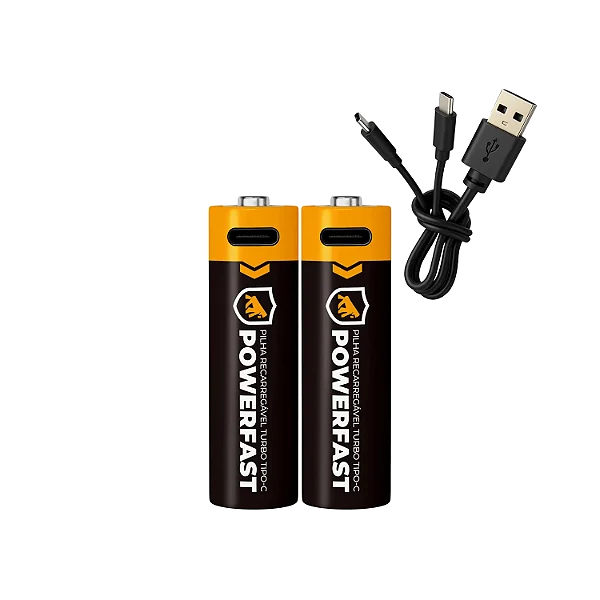
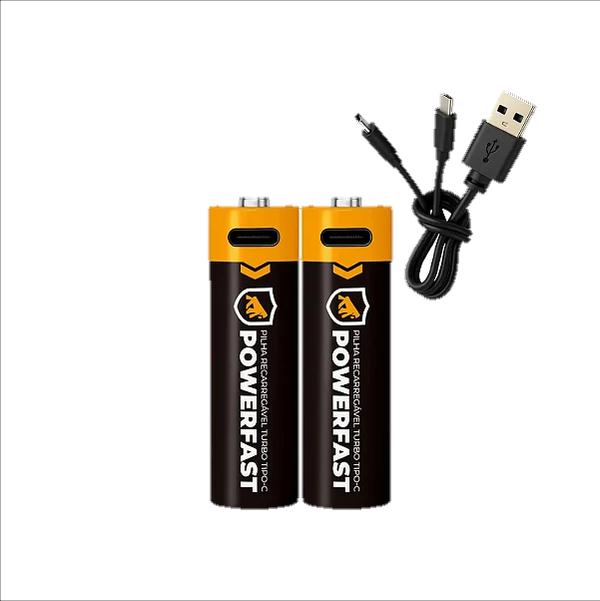
Corrige o recorte das fotos de produto
O halo claro em volta das peças vinha do próprio recorte: a versão
anterior apagava pixels acima de 232 de luminância e considerava opaco
todo o resto. A franja anti-serrilhado de um objeto escuro sobre branco
percorre a faixa inteira, então um pixel com 40% de cobertura saía
opaco e cinza-claro. Sobre branco isso é invisível, e foi por isso que
passou: a conferência tem de ser feita no fundo em que a imagem aparece.

Agora a borda é COMIDA em vez de adivinhada: dois pixels saem com alfa
em rampa e a cor deles é substituída pela do interior, para não sobrar
mistura com o fundo antigo em canal nenhum.

Buraco de fundo também não se distingue de tinta branca por limiar: uma
primeira tentativa comeu o "POWERFAST" impresso no corpo preto. Os dois
se separam por tamanho e uniformidade, com limites por imagem, porque as
cartelas têm tinta clara e os cabos não.

Cartão OG refeito, já que ele compõe a cartela sobre preto.

diff --git a/REGRAS.md b/REGRAS.md
@@ -898,6 +898,14 @@ Seis frentes auditadas em paralelo, cada achado passado por um cético que tento
 
 **Verificado servindo o `out/` no subcaminho:** zero respostas 4xx, oito texturas em 200, cinco imagens resolvidas, e a cena desenhando (9 chamadas, 20.352 triângulos).
 
+**Recorte de fundo: a franja é para COMER, não para adivinhar.**
+
+A primeira versão apagava pixels acima de 232 de luminância e considerava opaco todo o resto. Mas a franja anti-serrilhado de um objeto escuro sobre branco percorre a faixa inteira: um pixel com 40% de cobertura fica em torno de 160. Ele não entrava no fundo, saía opaco e cinza-claro, e sobre a página preta virava um halo em volta de cada peça. Sobre branco isso é invisível, que é exatamente por que passou: **a conferência tem de ser feita no fundo em que a imagem vai aparecer.**
+
+O tratamento correto é retirar dois pixels da borda com alfa em rampa e **substituir a cor deles pela do interior**. Assim não sobra mistura com o fundo antigo em canal nenhum. Dois pixels em 600 é invisível; um halo claro sobre preto não é.
+
+**E buraco de fundo não se distingue de tinta branca por limiar.** Uma passagem que apagava toda região clara cercada pelo objeto comeu o "POWERFAST" impresso no corpo preto da pilha. Os dois se separam por TAMANHO e UNIFORMIDADE: o vão interno de um cabo enrolado é enorme e chapado, porque é o infinito do estúdio; uma letra é pequena e tem sombreado, porque é tinta recebendo luz. Como as cartelas têm tinta clara e os cabos não, os limites são por imagem, não globais.
+
 **Performance, no mesmo sprint.** O FPS caiu para ~21 e a causa era minha: o despertador do laço de render chamava `setFrameloop` a cada evento de scroll, e cada chamada escreve no store do R3F e re-renderiza a árvore do Canvas. Custo aparecendo exatamente durante a rolagem, que é o único momento em que a suavidade importa. Corrigido lembrando o modo num ref, para a chamada só acontecer na transição.
 
 Junto, três medidas de custo por pixel, que é o que limita esta cena (nove chamadas de desenho, mas cada pixel passa pelo Bloom):
